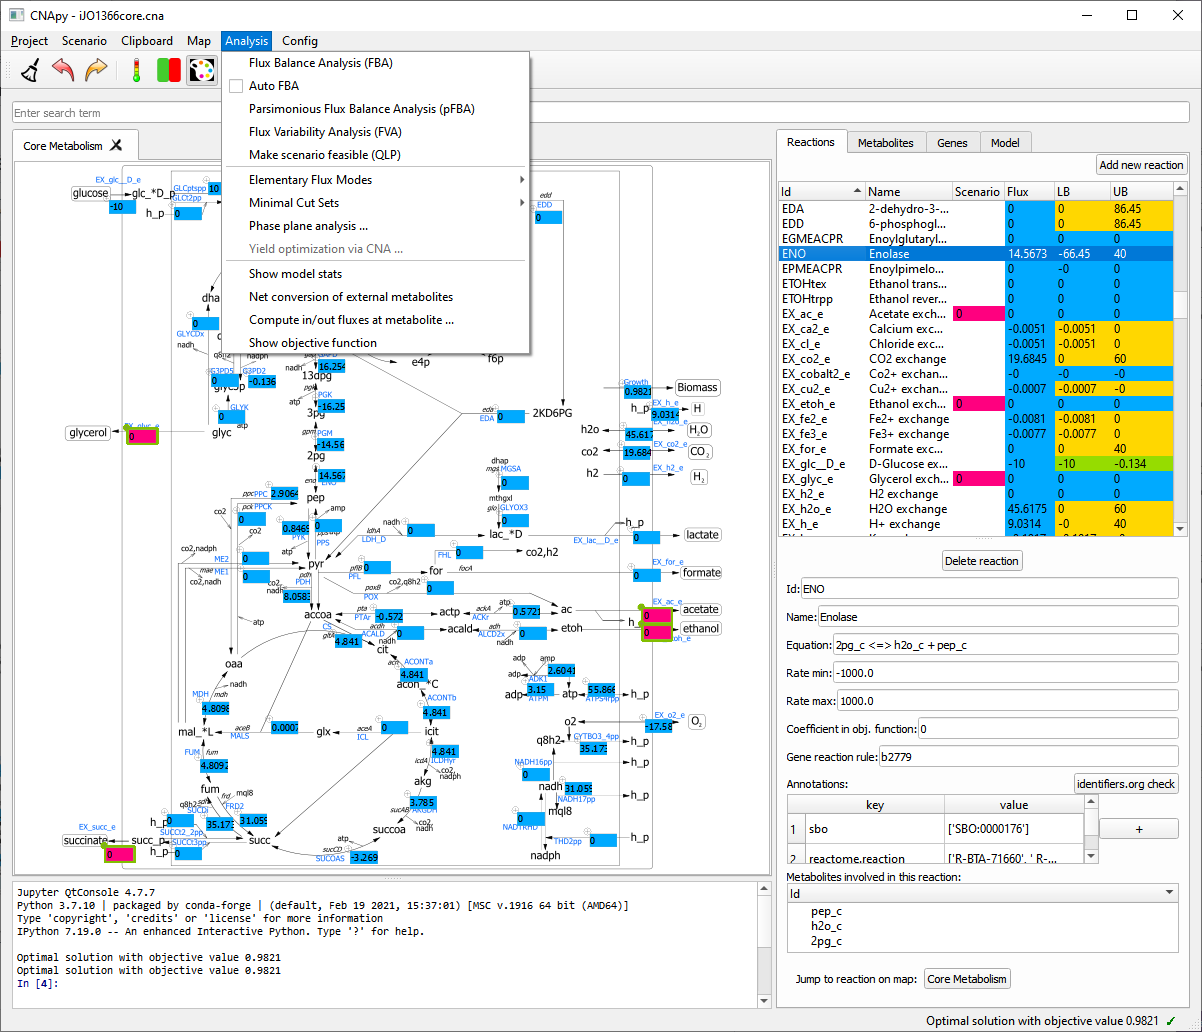
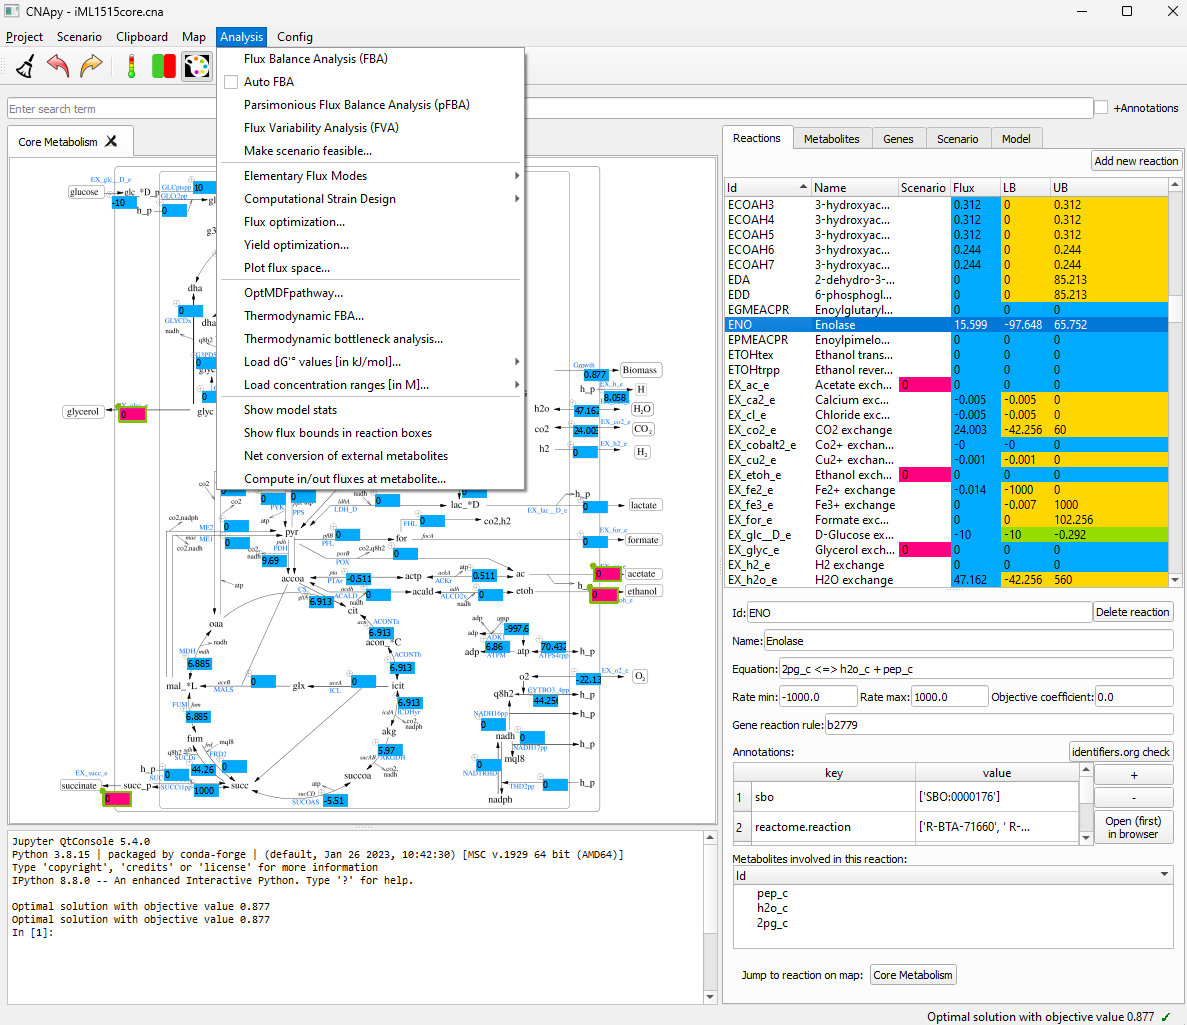
Enhanced readme (#459)
* Enhance README

* Update screenshot

* Update screenshot with more colors

Changed region(s): [[0.0, 0.0, 1.0, 1.0]]

diff --git a/README.md b/README.md
@@ -1,4 +1,4 @@
-# CNApy - An integrated environment for metabolic modeling
+# CNApy: An integrated environment for metabolic modeling
 
 [![Latest stable release](https://flat.badgen.net/github/release/cnapy-org/cnapy/stable)](https://github.com/cnapy-org/CNApy/releases/latest)
 [![Last commit](https://flat.badgen.net/github/last-commit/cnapy-org/cnapy)](https://github.com/cnapy-org/CNApy/commits/master)
@@ -9,13 +9,22 @@
 
 ## Introduction
 
-**If you have questions or suggestions regarding CNApy, you can use either of the [CNApy GitHub issues](https://github.com/cnapy-org/CNApy/issues), the [CNApy GitHub discussions](https://github.com/cnapy-org/CNApy/discussions) or the [CNApy Gitter chat room](https://gitter.im/cnapy-org/community).**
+**If you have questions, suggestions or bug reports regarding CNApy, you can use either of the [CNApy GitHub issues](https://github.com/cnapy-org/CNApy/issues), the [CNApy GitHub discussions](https://github.com/cnapy-org/CNApy/discussions) or the [CNApy Gitter chat room](https://gitter.im/cnapy-org/community).**
 
 CNApy is a Python-based graphical user interface for a) many common methods of Constraint-Based Reconstruction and Analysis (COBRA) with stoichiometric metabolic models, b) the visualization of COBRA calculation results and c) the creation and editing of metabolic models.
 
-Supported COBRA methods include Flux Balance Analysis (FBA), Flux Variability Analysis (FVA), Minimal Cut Sets (MCS), Elementary Flux Modes (EFM) and many more advanced strain design algorithms through its integration of the [StrainDesign](https://github.com/klamt-lab/straindesign) package.
+Supported COBRA methods (partly provided by [cobrapy](https://opencobra.github.io/cobrapy/)) include:
 
-All calculation results can be visualized in CNApy's interactive metabolic maps, which can be directly edited by the user. [Escher maps](https://escher.github.io/#/) are also natively supported and can be created and edited inside CNApy.
+- Flux Balance Analysis (FBA)
+- Flux Variability Analysis (FVA)
+- Making measured flux scenarios stoichiometrically feasible
+- Elementary Flux Modes (EFM)
+- Thermodynamic methods based on [OptMDFpathway](https://doi.org/10.1371/journal.pcbi.1006492)
+- Many advanced strain design algorithms such as [OptKnock](https://doi.org/10.1002/bit.10803), [RobustKnock](https://doi.org/10.1093/bioinformatics/btp704), [OptCouple](https://doi.org/10.1016/j.mec.2019.e00087) and [advanced Minimal Cut Sets](https://doi.org/10.1371/journal.pcbi.1008110) through its integration of the [StrainDesign](https://github.com/klamt-lab/straindesign) package.
+- Yield optimization (based on linear-fractional programming)
+- Phase plane analysis
+
+All calculation results can be visualized in CNApy's interactive metabolic maps which can use vector-based (SVG) backgrounds, which can be directly edited by the user. [Escher maps](https://escher.github.io/#/) are also natively supported and can be created and edited inside CNApy.
 
 Aside of performing calculations on metabolic models, CNApy can also be used to create and/or edit metabolic models, including all important aspects of the model's reactions, metabolites and genes. CNApy supports the widely used [SBML standard format](https://sbml.org/) for model loading and export.
 
